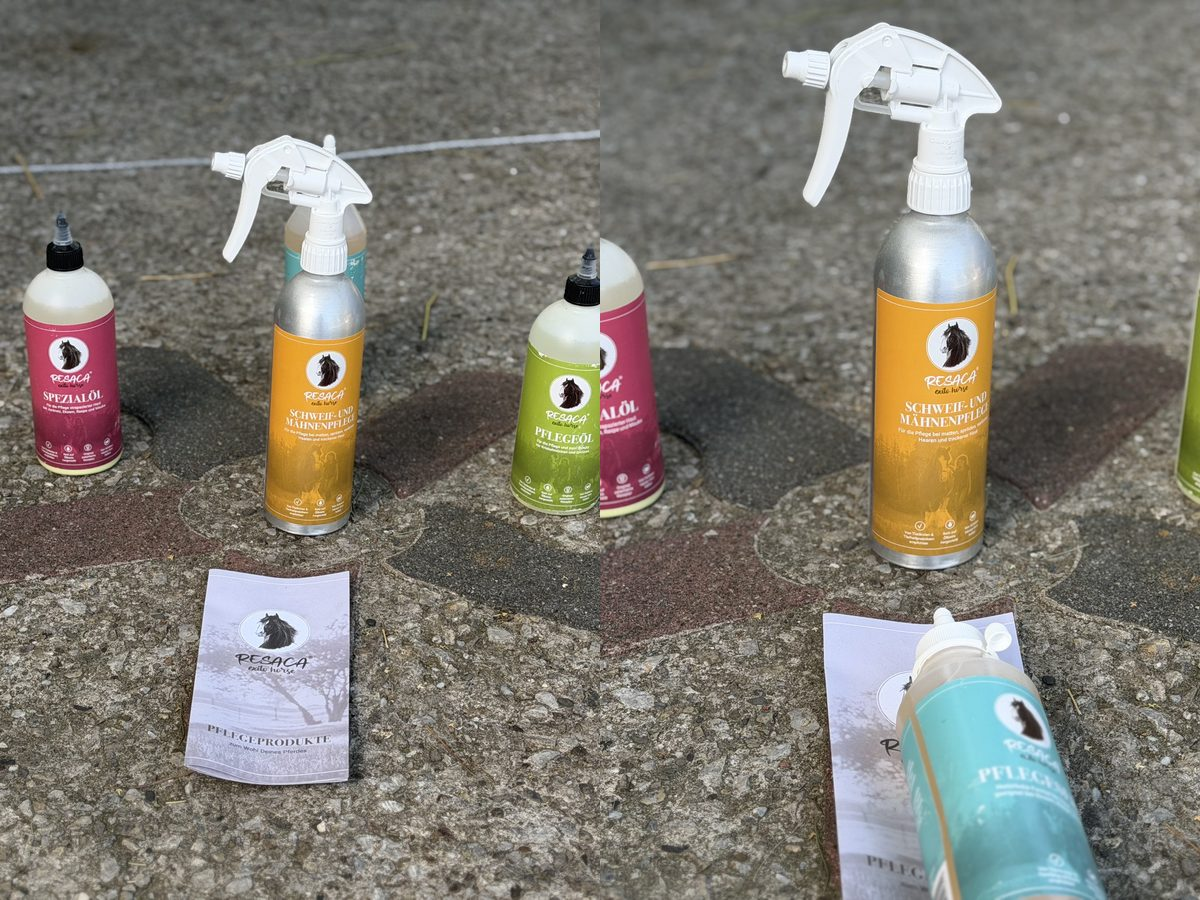
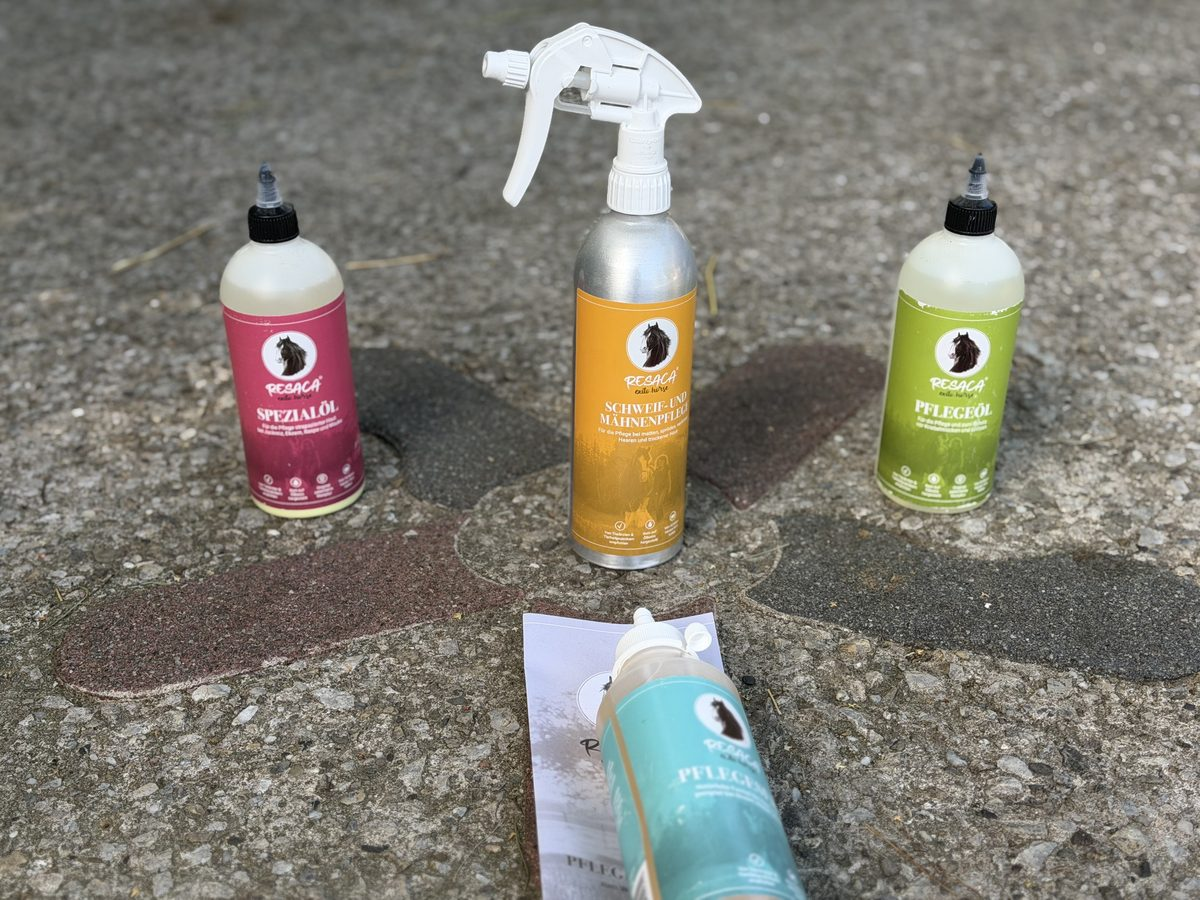
Pflegeprodukt-Foto: nur Einzelfoto (liegende Flasche) statt Zweier-Kombination

diff --git a/produkte.html b/produkte.html
@@ -99,7 +99,7 @@
     </div>
 
     <div class="produkt" id="pflege">
-      <img src="assets/produkt-pflege.jpg?v=2" alt="RESACA Pferde-Pflegeprodukte auf dem Stallboden: Spezialöl, Schweif- und Mähnenpflege, Pflegeöl">
+      <img src="assets/produkt-pflege.jpg?v=3" alt="RESACA Pferde-Pflegeprodukte auf dem Stallboden: Spezialöl, Schweif- und Mähnenpflege, Pflegeöl, eine Flasche liegend im Vordergrund">
       <div>
         <h3>Pflegeprodukte</h3>
         <p>Gutes Pferd verdient gute Pflege. Bei uns bekommt ihr ausgewählte Pflegeprodukte für Fell, Mähne und Schweif, samt ehrlicher Beratung, was euer Pferd wirklich braucht.</p>
